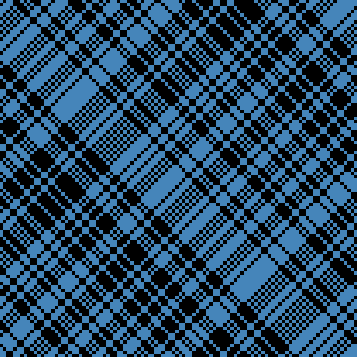
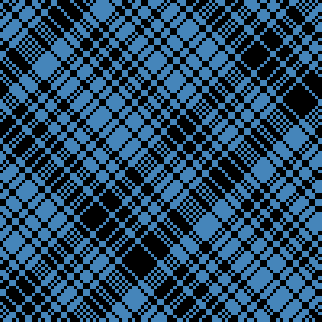
Replacing header image and description in CA page.

diff --git a/programs/cellular_automata.html b/programs/cellular_automata.html
@@ -39,13 +39,13 @@
 	
 	<p>I have been fascinated by <a href="https://en.wikipedia.org/wiki/Cellular_automaton" target="_blank">cellular automata</a> (CA) since I first learned about them as an undergraduate. They are a type of mathematical model consisting of an array of cells which interact with each other in simple ways to produce complex, emergent global behavior. While I have never taken a formal course that involves the study of CA models, they were one of the first things that really got me interested in mathematics, and they were one of the first topics that I made a point of learning about on my own outside of class.</p>
 	
-	<p>Incidentally, the header pattern for this site is not just a pixelated plaid pattern: it was generated by a 1D <a href="https://www.wolframscience.com/nks/p460--conserved-quantities-and-continuum-phenomena/" target="_blank">block cellular automaton</a>  initialized with the first 104 elements of the <a href="https://oeis.org/A038219" target="_blank">Ehrenfeucht-Mycielski sequence</a>. I also realize in retrospect that my chosen color scheme makes this site look a lot like the <a href="https://en.wikipedia.org/wiki/Flag_of_Estonia" target="_blank">flag of Estonia</a>, but that is just a coincidence.</p>
+	<p>Incidentally, the header pattern for this site is not just a pixelated plaid pattern: it was generated by a 1D <a href="https://www.wolframscience.com/nks/p460--conserved-quantities-and-continuum-phenomena/" target="_blank">block cellular automaton</a>  initialized with the first 100 digits of the binary expansion of <a href="https://en.wikipedia.org/wiki/E_(mathematical_constant)" target="_blank"><i>e</i></a>. I also realize in retrospect that my chosen color scheme makes the top of this site look like the <a href="https://en.wikipedia.org/wiki/Flag_of_Estonia" target="_blank">flag of Estonia</a>, but that is just a coincidence.</p>
 	
 	<p>CA models combine several of my favorite things: they lie at the intersection of mathematics and computer science, they are an example of simple rules giving rise to complex behavior, they present an interesting programming challenge, and they often generate pretty pictures. When I first saw animations of <a href="https://en.wikipedia.org/wiki/Conway%27s_Game_of_Life" target="_blank">Conway's Game of Life</a> I knew that I wanted to try to recreate it on my own. That, plus my interest in video game design, was my main motivation for trying seriously to learn how to program. Those efforts eventually led to:</p>
 	
 	<h1>Cellular Automata Playground</h1>
 	
-	<p class="tab"><a href="https://github.com/adam-rumpf/cellular-automata-playground" target="_blank">GitHub Link</a></p>
+	<p><a href="https://github.com/adam-rumpf/cellular-automata-playground" target="_blank">GitHub Link</a></p>
 	
 	<p>In 2012, during an undergraduate Java class I had grown bored with the course material, which seemed to be moving too slowly. As I have done at several points during my academic career, I decided to undertake a secret project of my own out of personal interest. Since this was around the time that I had first started looking into CA models, I decided to write a program to implement them. I also went into the project with the goal of making something nice and user-friendly that could be presented to anyone. At the time I had no intention of releasing it, but since starting a <a href="https://github.com/adam-rumpf" target="_blank">GitHub account</a> I have decided to make it publicly available.</p>
 	
